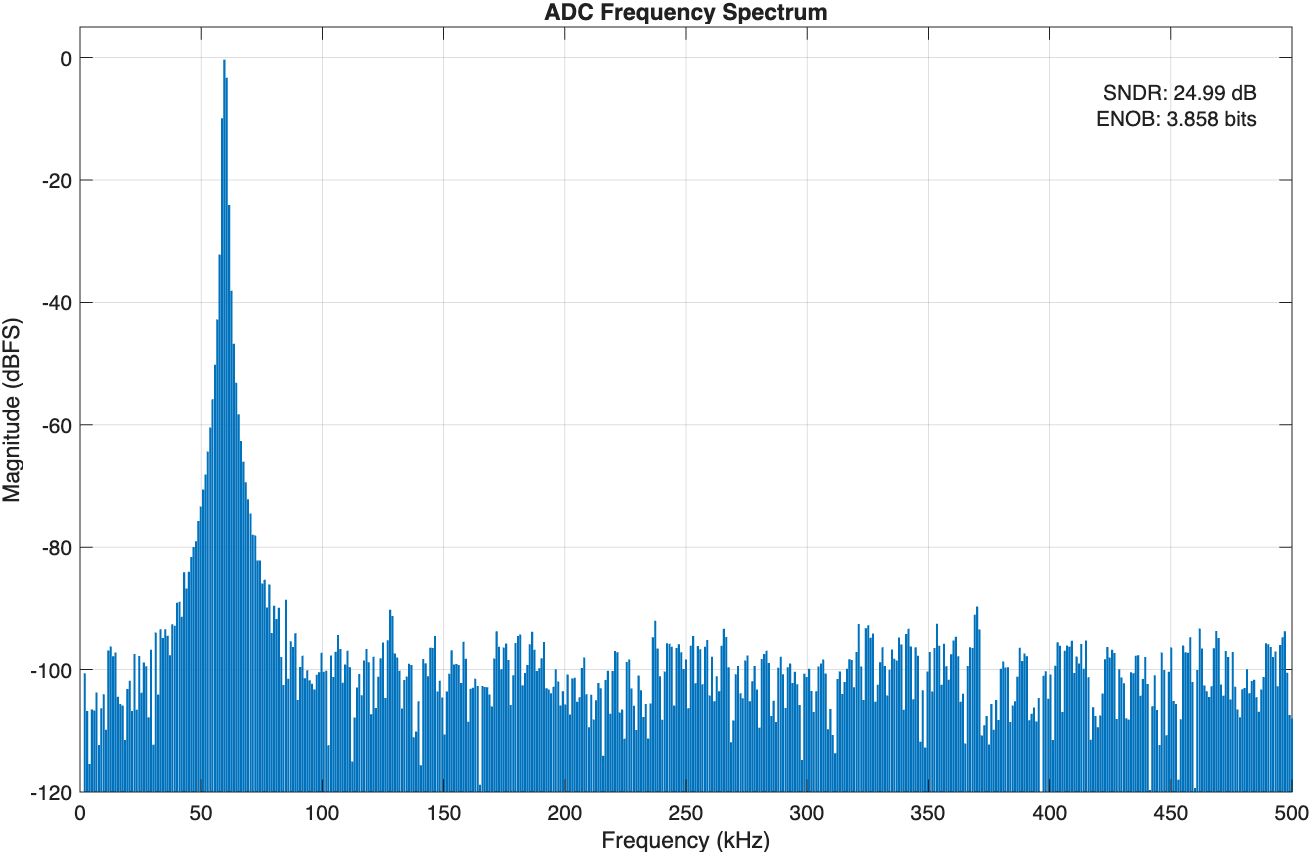
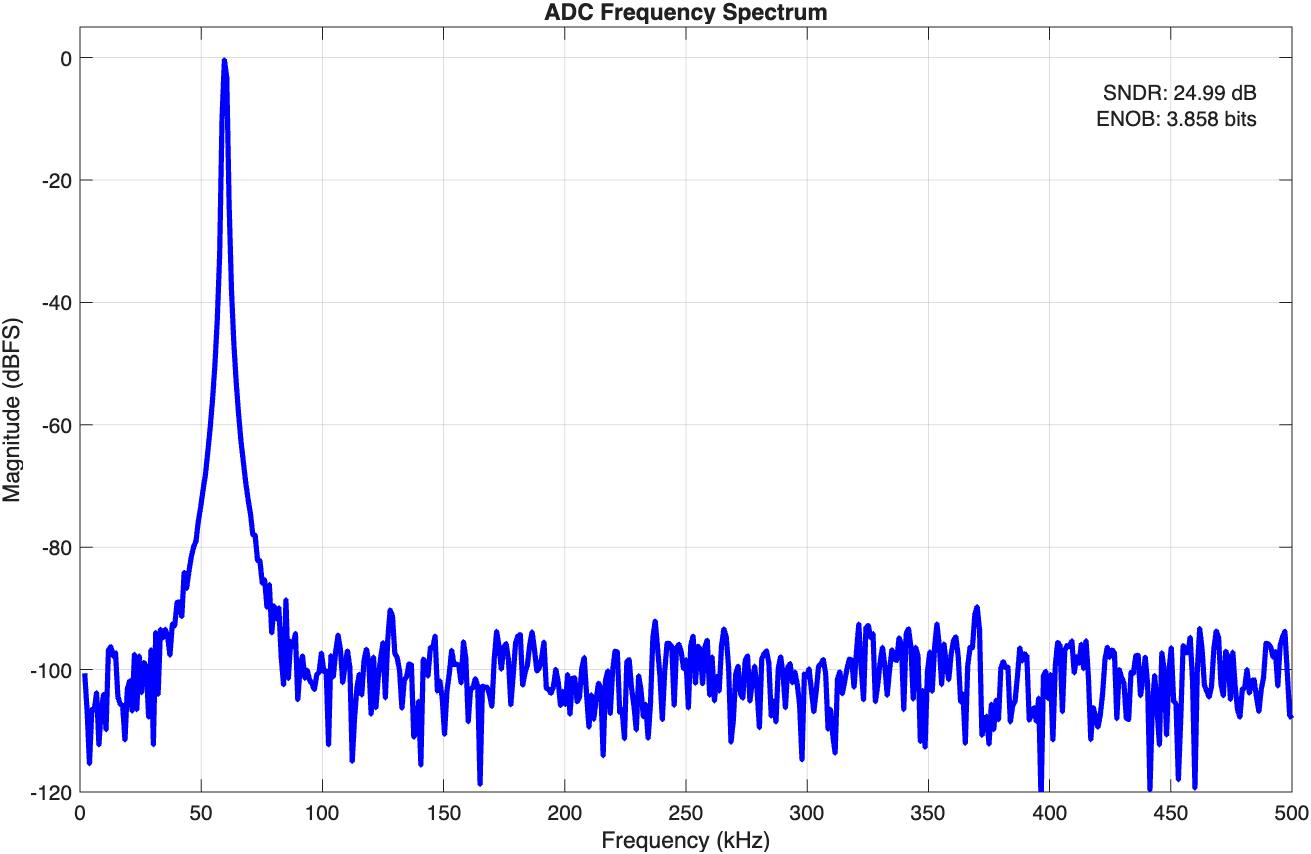
Add selectable bridge CDAC

Changed region(s): [[0.061, 0.0609, 1.0, 0.9438]]

diff --git a/function/bridgeCDAC.m b/function/bridgeCDAC.m
@@ -1,0 +1,16 @@
+function cdacOutputVolts = bridgeCDAC( capacitorArray, p, inputVolts, switchPositions )
+  msbSampledChargeFemtocoulombs = -capacitorArray.msbTotalCapacitanceFemtofarads * inputVolts;
+  lsbSampledChargeFemtocoulombs = -capacitorArray.lsbTotalCapacitanceFemtofarads * inputVolts;
+
+  msbBottomPlateVolts = switchPositions( 1 : p.msbBitCount ) * p.vRef;
+  lsbBottomPlateVolts = [ switchPositions( p.msbBitCount + 1 : end ) * p.vRef, 0 ];
+
+  msbBottomPlateContributionFemtocoulombs = sum( capacitorArray.msbCapacitanceFemtofarads .* msbBottomPlateVolts );
+  lsbBottomPlateContributionFemtocoulombs = sum( capacitorArray.lsbCapacitanceFemtofarads .* lsbBottomPlateVolts );
+
+  msbChargeTermFemtocoulombs = msbSampledChargeFemtocoulombs + msbBottomPlateContributionFemtocoulombs;
+  lsbChargeTermFemtocoulombs = lsbSampledChargeFemtocoulombs + lsbBottomPlateContributionFemtocoulombs;
+
+  effectiveCapacitanceFemtofarads = capacitorArray.msbTotalCapacitanceFemtofarads + capacitorArray.bridgeCapacitanceFemtofarads * capacitorArray.lsbTotalCapacitanceFemtofarads / ( capacitorArray.lsbTotalCapacitanceFemtofarads + capacitorArray.bridgeCapacitanceFemtofarads );
+  cdacOutputVolts = ( msbChargeTermFemtocoulombs + capacitorArray.bridgeCapacitanceFemtofarads * lsbChargeTermFemtocoulombs / ( capacitorArray.lsbTotalCapacitanceFemtofarads + capacitorArray.bridgeCapacitanceFemtofarads ) ) / effectiveCapacitanceFemtofarads;
+end

diff --git a/testbench/simConventionalSarADC.m b/testbench/simConventionalSarADC.m
@@ -3,9 +3,19 @@ p = createSimulationConfiguration();
 [inputVoltageSamples, stimulus] = generateSineSamples( p );
 
 %% Build one capacitor array
-capacitorWeights = synthesizeBinaryCDAC( p );
-capacitorArray.nominalCapacitanceFemtofarads = p.unitCapacitanceFemtofarads * capacitorWeights;
-capacitorArray.totalCapacitanceFemtofarads = sum( capacitorArray.nominalCapacitanceFemtofarads );
+capacitorWeights = synthesizeCDAC( p );
+capacitorArray = struct();
+switch p.cdacType
+  case "binary"
+    capacitorArray.nominalCapacitanceFemtofarads = p.unitCapacitanceFemtofarads * capacitorWeights;
+    capacitorArray.totalCapacitanceFemtofarads = sum( capacitorArray.nominalCapacitanceFemtofarads );
+  case "bridge"
+    capacitorArray.msbCapacitanceFemtofarads = p.unitCapacitanceFemtofarads * capacitorWeights.msb;
+    capacitorArray.lsbCapacitanceFemtofarads = p.unitCapacitanceFemtofarads * capacitorWeights.lsb;
+    capacitorArray.bridgeCapacitanceFemtofarads = p.unitCapacitanceFemtofarads * capacitorWeights.bridge;
+    capacitorArray.msbTotalCapacitanceFemtofarads = sum( capacitorArray.msbCapacitanceFemtofarads );
+    capacitorArray.lsbTotalCapacitanceFemtofarads = sum( capacitorArray.lsbCapacitanceFemtofarads );
+end
 
 %% Convert and store one sample at a time
 binaryCodes = nan( p.sampleCount, p.resolutionBits );

diff --git a/function/cdac-topologies/synthesizeCDAC.m b/function/cdac-topologies/synthesizeCDAC.m
@@ -1,0 +1,19 @@
+function capacitorWeights = synthesizeCDAC( p )
+  switch p.cdacType
+    case "binary"
+      %% Binary-weighted branches followed by one unit dummy
+      bitExponents = [ ( p.resolutionBits - 1 ) : -1 : 0, 0 ];
+      capacitorWeights = 2 .^ bitExponents;
+    case "bridge"
+      %% MSB array
+      msbExponents = ( p.msbBitCount - 1 ) : -1 : 0;
+      capacitorWeights.msb = 2 .^ msbExponents;
+
+      %% LSB array followed by one unit dummy
+      lsbExponents = [ ( p.lsbBitCount - 1 ) : -1 : 0, 0 ];
+      capacitorWeights.lsb = 2 .^ lsbExponents;
+
+      %% Bridge capacitor
+      capacitorWeights.bridge = 2 ^ p.lsbBitCount / ( 2 ^ p.lsbBitCount - 1 );
+  end
+end

diff --git a/models/cbwSarADC.m b/models/cbwSarADC.m
@@ -4,7 +4,12 @@ function binaryCode = cbwSarADC( capacitorArray, p, inputVolts )
   %% SAR control: trial switch, solve, compare, retain or revert
   for iBit = 1 : p.resolutionBits
     switchPositions( iBit ) = 1;
-    cdacOutputVolts = binaryCDAC( capacitorArray, p, inputVolts, switchPositions );
+    switch p.cdacType
+      case "binary"
+        cdacOutputVolts = binaryCDAC( capacitorArray, p, inputVolts, switchPositions );
+      case "bridge"
+        cdacOutputVolts = bridgeCDAC( capacitorArray, p, inputVolts, switchPositions );
+    end
     keepBit = p.comparatorReferenceShiftVolts >= cdacOutputVolts;
     if ~keepBit
       switchPositions( iBit ) = 0;

diff --git a/function/plotting/plotFrequencySpectrum.m b/function/plotting/plotFrequencySpectrum.m
@@ -2,7 +2,7 @@ function plotFrequencySpectrum( spectrum, p )
   frequencyKilohertz = ( 2 : p.sampleCount / 2 )' * p.sampleRateHz / p.sampleCount / 1e3;
 
   figure( 'Color', 'w', 'Position', [100, 100, 1000, 600] );
-  stem( frequencyKilohertz, spectrum.binMagnitudeDbfs, 'Color', [0, 0.447, 0.741], 'Marker', 'none', 'LineWidth', 1, 'BaseValue', -120 );
+  plot( frequencyKilohertz, spectrum.binMagnitudeDbfs, 'b-', 'LineWidth', 2.5 );
   xlabel( 'Frequency (kHz)' );
   ylabel( 'Magnitude (dBFS)' );
   title( 'ADC Frequency Spectrum' );

diff --git a/sim-config/createSimulationConfiguration.m b/sim-config/createSimulationConfiguration.m
@@ -1,6 +1,9 @@
 function p = createSimulationConfiguration()
   %% Converter settings
-  p.resolutionBits = 12;
+  p.cdacType = "binary";
+  p.msbBitCount = 6;
+  p.lsbBitCount = 6;
+  p.resolutionBits = p.msbBitCount + p.lsbBitCount;
   p.vRef = 1;
   p.vCM = p.vRef / 2;
   p.unitCapacitanceFemtofarads = 10;

diff --git a/README.md b/README.md
@@ -1,13 +1,13 @@
 # Analog-to-Digital Converter Design
 
-An ideal single-ended SAR ADC model in MATLAB, with a binary-weighted charge-redistribution CDAC, successive bit decisions and noncoherent sine-wave FFT analysis with a periodic Hann window. The array includes a unit dummy capacitor and an explicit half-LSB comparator-reference bias. Nonideal effects are not modeled.
+An ideal single-ended SAR ADC model in MATLAB, with a selectable binary-weighted or bridge charge-redistribution CDAC, successive bit decisions and noncoherent sine-wave FFT analysis with a periodic Hann window. The array includes a unit dummy capacitor and an explicit half-LSB comparator-reference bias. Nonideal effects are not modeled.
 
 ## Run
 
 Requires MATLAB, Communications Toolbox and Richard Schreier's Delta Sigma Toolbox. Verified with MATLAB R2026a.
 
 1. Add `sim-config`, `models`, `function` and `testbench`, including their subfolders, to the MATLAB path. Run `savepath` once to retain the setup.
-2. Edit [createSimulationConfiguration.m](sim-config/createSimulationConfiguration.m) to set converter and test parameters.
+2. Edit [createSimulationConfiguration.m](sim-config/createSimulationConfiguration.m) to set converter and test parameters. Select `p.cdacType = "binary"` or `"bridge"`; the bridge split uses `p.msbBitCount` and `p.lsbBitCount`.
 3. Open [simConventionalSarADC.m](testbench/simConventionalSarADC.m) and click **Run**. The script displays the spectrum, SNDR and ENOB and keeps the output bits and analysis results in the workspace.
 
 The testbench builds one capacitor array, converts and stores one sample at a time, then analyzes the complete record. Normal runs do not save files automatically.
@@ -15,7 +15,8 @@ The testbench builds one capacitor array, converts and stores one sample at a ti
 ## Main functions
 
 - [cbwSarADC.m](models/cbwSarADC.m): converts one input voltage through successive bit trials and returns one MSB-first binary code.
-- [binaryCDAC.m](function/binaryCDAC.m): calculates the CDAC output voltage from capacitor values, the input sample and switch positions.
+- [synthesizeCDAC.m](function/cdac-topologies/synthesizeCDAC.m): generates unit-capacitance weights for the selected topology.
+- [binaryCDAC.m](function/binaryCDAC.m) and [bridgeCDAC.m](function/bridgeCDAC.m): calculate the selected CDAC output voltage from capacitor values, the input sample and switch positions.
 - [idealDAC.m](function/data-processing/idealDAC.m): decodes output bits into nominal voltages for analysis.
 - [processAdcData.m](function/data-processing/processAdcData.m): returns the complex single-sided spectrum, its magnitude in dBFS, SNDR and ENOB.
 - [plotFrequencySpectrum.m](function/plotting/plotFrequencySpectrum.m): displays magnitude in dBFS and performance metrics.
@@ -29,9 +30,13 @@ The testbench builds one capacitor array, converts and stores one sample at a ti
 | SNDR | 24.985678 dB |
 | ENOB | 3.858086 bits |
 
+Total resolution is derived from `msbBitCount + lsbBitCount`, currently 6 + 6. The default CDAC type is `"binary"`. The testbench builds the selected array once, and cbwSarADC uses the matching voltage calculation for each bit trial.
+
+Full MATLAB runs on 2026-11-21 verified the default binary model and bridge splits of 6+6, 7+5 and 5+7. All produced identical output codes, decoded voltages and spectra for the default sine. Thirty endpoint and near-transition checks also passed. The bridge voltage formula separately agreed with an independent two-node solution within 1.12e-16 V, including perturbed capacitances. These checks do not add mismatch or other nonideal effects to the model.
+
 The FFT is normalized by the Hann window sum and referenced to a full-scale sine. Analysis and plotting exclude bins 0 and 1, which contain the constant offset after periodic Hann weighting. SNDR counts the nearest tone bin and its two immediate neighbors as signal for both coherent and noncoherent sampling. All other retained bins contribute to the residual, including tone leakage. ENOB is `(SNDR - 1.76) / 6.02`, without amplitude correction.
 
-The spectrum displays individual bins down to -120 dBFS, with SNDR and ENOB inside the axes. A full MATLAB run on 2026-11-12 reproduced SNDR by summing the powers in bins 60 through 62 and comparing them with the other retained bins. Applying the same analysis directly to the unquantized input yielded 24.984404 dB. Tone leakage dominates this noncoherent estimate. The retained FFT coefficients agreed with the Appendix A amplitude normalization within 2e-16 after matching the input scale and Nyquist weighting. At 1024 samples, a pure sine with 61 cycles had 3 bins above -60 dBFS; at 61.25 cycles it had 12, matching the ADC output at that threshold. The figure is manually exported.
+The spectrum connects individual FFT bins with a solid blue 2.5 pt line and displays SNDR and ENOB inside the axes. The lower display limit is -120 dBFS. A full MATLAB run on 2026-11-12 reproduced SNDR by summing the powers in bins 60 through 62 and comparing them with the other retained bins. Applying the same analysis directly to the unquantized input yielded 24.984404 dB. Tone leakage dominates this noncoherent estimate. The retained FFT coefficients agreed with the Appendix A amplitude normalization within 2e-16 after matching the input scale and Nyquist weighting. At 1024 samples, a pure sine with 61 cycles had 3 bins above -60 dBFS; at 61.25 cycles it had 12, matching the ADC output at that threshold. The figure is manually exported.
 
 These are finite-record estimates for the selected ideal test. Noise inside the signal region is excluded from the residual, while residual tone leakage can enter it; neither effect is corrected. Other tone settings must keep the three-bin signal region inside the retained band and away from Nyquist. No measured hardware performance is implied.
 
